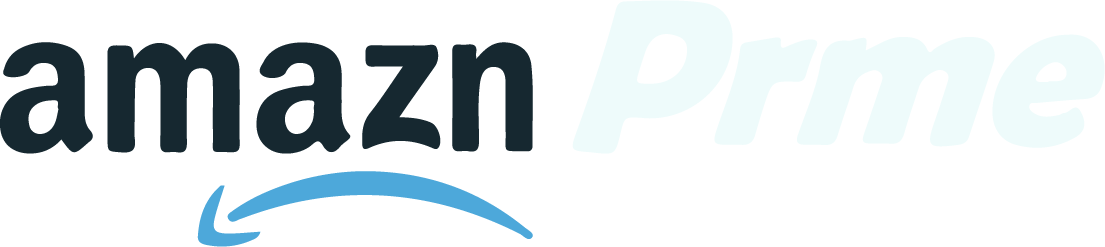
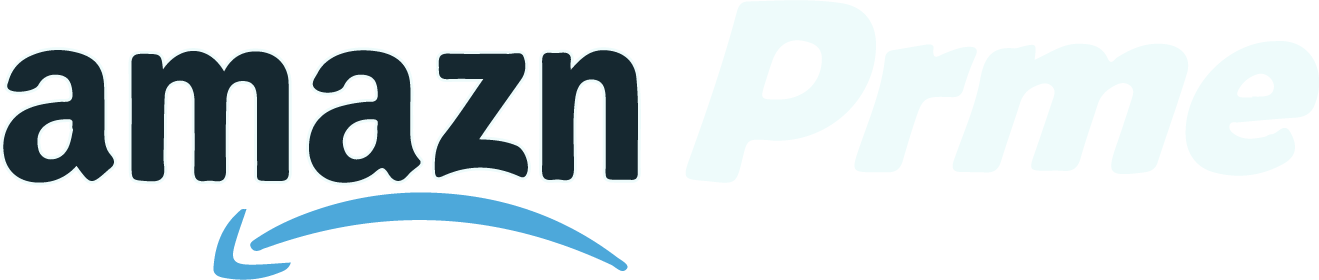
estructura base de todas menos de prme hechas

diff --git a/index.html b/index.html
@@ -17,7 +17,7 @@
         <div class="headr">
 
             <a href="index.html">
-                <img src="assets/Recurso12.png" id="logo" alt="logo" width="150px" height="50px">
+                <img src="assets/logo.png" id="logo" alt="logo" width="150px" height="50px">
             </a>
 
         </div>
@@ -62,34 +62,32 @@
 
     <!--Aside dentro del main-->
     <main>
-        <section class="menuh">
 
-        </section>
-
-        <section>
-            <h2>Destacados</h2>
+        <section id="principal">
+            <h2>Novedades Destacadas</h2>
             <article>
-                <p>
-                    Lorem ipsum dolor sit amet consectetur adipisicing elit. Explicabo nam delectus voluptas maiores
-                    dolore reiciendis fugiat, minus cumque similique inventore esse aliquam repellat officiis atque
-                    quisquam, eum autem consectetur adipisci?
-                    Quidem recusandae ullam sint fuga pariatur ipsam. Ut impedit, sequi quis rerum doloremque vel
-                    numquam. Id hic inventore, commodi asperiores dolores exercitationem? Perferendis reprehenderit
-                    beatae ea eligendi! Quasi, ab deleniti!
-                    Culpa ad fuga, aliquid quos voluptates, ratione nihil nobis atque pariatur dicta totam iste
-                    accusamus, nesciunt ducimus doloremque laboriosam quia. Impedit nulla eius natus ea ab amet nam
-                    aliquid perspiciatis?
-                    Ullam hic deserunt amet tenetur harum labore suscipit commodi voluptatum quaerat impedit quibusdam
-                    nesciunt, rerum odit repellendus voluptatem sapiente dicta a neque exercitationem beatae officia qui
-                    necessitatibus itaque! Fugiat, accusamus.
-                    Cupiditate voluptatum odio porro ratione ex voluptatem explicabo quaerat. Placeat ut, temporibus
-                    quisquam in laboriosam laborum consectetur earum quibusdam molestiae! Recusandae perferendis enim
-                    fugiat maxime impedit quidem deserunt quas placeat!
-                    Labore minima laborum, deleniti placeat nobis quis modi unde ipsam voluptatem reprehenderit
-                    provident. Laboriosam, beatae molestias! Voluptate eos, quod eaque nobis officia, aliquid quisquam
-                    debitis possimus a corrupti atque ipsum!
-                </p>
+
             </article>
+
+            <article>
+
+            </article>
+
+            <article>
+
+            </article>
+
+            <article>
+
+            </article>
+
+            <article>
+
+            </article>
+            <article>
+
+            </article>
+
         </section>
 
     </main>

diff --git a/paginas/bsics.html b/paginas/bsics.html
@@ -16,7 +16,7 @@
         <div class="headr">
 
             <a href="../index.html">
-                <img src="../assets/Recurso12.png" id="logo" alt="logo" width="150px" height="50px">
+                <img src="../assets/logo.png" id="logo" alt="logo" width="150px" height="50px">
             </a>
 
         </div>
@@ -61,14 +61,34 @@
 
     <main>
 
-        Lorem ipsum dolor sit amet consectetur adipisicing elit. Quisquam, vel rerum exercitationem obcaecati
-        repudiandae similique voluptatum nostrum dolor, libero ea accusantium iste possimus magni magnam voluptas.
-        Praesentium minima aliquid labore?
-        Consectetur ducimus asperiores incidunt repellat assumenda iusto, ex magnam est quidem omnis voluptates veniam.
-        Neque dignissimos architecto eligendi expedita totam corrupti molestias, libero quis quasi quae repellendus
-        praesentium, autem consequuntur.
-        Nostrum quod sunt ea consectetur praesentium ratione? Temporibus, nesciunt? Laborum ea rerum nemo in provident,
-        impedit totam dolorum distinctio officia saepe quos sequi nihil, vel quae, neque animi quasi blanditiis!
+        <section id="principal">
+
+            <h2>Amazn Bsics</h2>
+            <article>
+
+            </article>
+
+            <article>
+
+            </article>
+
+            <article>
+
+            </article>
+            
+            <article>
+
+            </article>
+
+            <article>
+
+            </article>
+            <article>
+
+            </article>
+            
+        </section>
+
     </main>
 
     <footer>

diff --git a/paginas/ofertas.html b/paginas/ofertas.html
@@ -16,7 +16,7 @@
         <div class="headr">
 
             <a href="../index.html">
-                <img src="../assets/Recurso12.png" id="logo" alt="logo" width="150px" height="50px">
+                <img src="../assets/logo.png" id="logo" alt="logo" width="150px" height="50px">
             </a>
 
         </div>
@@ -60,14 +60,32 @@
     </nav>
 
     <main>
-        Lorem ipsum dolor sit amet consectetur adipisicing elit. Laborum, nulla accusantium! Doloremque rerum rem nisi
-        aliquid placeat nostrum, tempore optio, facere in qui quas eum ducimus nulla, natus consequatur? Aperiam!
-        Expedita quam libero veniam asperiores laborum magnam porro nesciunt, tempora quisquam omnis numquam nemo ipsam
-        natus officia. Consequatur dolor accusantium doloremque nesciunt quae obcaecati modi, sed, mollitia laudantium
-        amet dolore!
-        Repellendus, alias natus nulla ab praesentium voluptate debitis eligendi animi, necessitatibus at dicta ut
-        fugiat ea beatae architecto aspernatur eveniet error omnis dolorum laboriosam magni? Neque quasi beatae placeat
-        ipsa.
+        <section id="principal">
+            <h2>Ofertas</h2>
+            <article>
+
+            </article>
+
+            <article>
+
+            </article>
+
+            <article>
+
+            </article>
+
+            <article>
+
+            </article>
+
+            <article>
+
+            </article>
+            <article>
+
+            </article>
+
+        </section>
 
     </main>
 

diff --git a/paginas/masVendidos.html b/paginas/masVendidos.html
@@ -16,7 +16,7 @@
         <div class="headr">
 
             <a href="../index.html">
-                <img src="../assets/Recurso12.png" id="logo" alt="logo" width="150px" height="50px">
+                <img src="../assets/logo.png" id="logo" alt="logo" width="150px" height="50px">
             </a>
 
         </div>
@@ -61,13 +61,32 @@
 
     <main>
 
-        Lorem ipsum dolor sit, amet consectetur adipisicing elit. Dolorum, culpa veritatis debitis dignissimos iure quae
-        voluptates, tempore enim aspernatur reiciendis necessitatibus? Inventore rem eius nemo animi illo optio, aut
-        veniam!
-        Ipsa omnis, expedita sunt architecto at nemo magnam sapiente eius sint nisi facilis dolorum perferendis id,
-        accusamus quasi possimus ex cumque dolore vero maiores quos labore cupiditate similique? Iusto, repellat.
-        Doloremque perspiciatis, sunt excepturi obcaecati, eaque, adipisci explicabo rem minima praesentium minus esse
-        nam quaerat earum saepe id eum tenetur omnis? Hic, est vero dolore explicabo labore sint porro neque.
+        <section id="principal">
+            <h2>Mas Vendidos</h2>
+            <article>
+
+            </article>
+
+            <article>
+
+            </article>
+
+            <article>
+
+            </article>
+            
+            <article>
+
+            </article>
+
+            <article>
+
+            </article>
+            <article>
+
+            </article>
+            
+        </section>
 
     </main>
 

diff --git a/style.css b/style.css
@@ -56,8 +56,6 @@ header form {
 
 }
 
-
-
 header button {
     height: 50px;
     width: 100px;
@@ -148,20 +146,40 @@ fieldset {
     height: 280px;
 }
 
-#login legend {
+#register{
+    margin: auto;
+    margin-top: -30px;
+    border: #EEFBFB;
+    border-radius: 10px;
+    border-style: solid;
+    border-width: 1px;
+    padding: 30px;
+    width: 200px;
+    height: 300px;
+}
+
+#login legend,#register legend {
     margin: 0 auto;
     margin-bottom: 30px;
 }
 
-#login input {
+#login input,#register input {
     display: block;
+}
+
+#register input,#register button{
+    margin: auto;
+}
+
+#register input{
+    margin-top: 20px;
 }
 
 #password {
     margin-top: 20px;
 }
 
-#loginb {
+#loginb,#register button {
     width: 100px;
     height: 40px;
     margin-left: 35px;
@@ -171,6 +189,10 @@ fieldset {
     border: 0;
     border-radius: 15px;
     cursor: pointer;
+}
+
+#register button{
+    margin-top: 30px;
 }
 
 #linealogin {
@@ -193,7 +215,31 @@ fieldset {
     cursor: pointer;
 }
 
+#principal{
+    width: 1200px;
+    height: 800px;
+    margin: auto;
+    margin-top: 20px;
+    text-align: center;
+}
 
+#principal article {
+    float: left;
+    width: 300px;
+    height: 300px;
+    border:  #EEFBFB solid;
+    display: block;
+    margin-top: 20px;
+    margin-bottom: 10px;
+    margin-left: 70px;
+    cursor:pointer
+}
+
+#mainpr div{
+    margin: auto;
+    width: 659px;
+    height: 140px;
+}
 
 /*FOOTER*/
 

diff --git a/paginas/prme.html b/paginas/prme.html
@@ -16,7 +16,7 @@
         <div class="headr">
 
             <a href="../index.html">
-                <img src="../assets/Recurso12.png" id="logo" alt="logo" width="150px" height="50px">
+                <img src="../assets/logo.png" id="logo" alt="logo" width="150px" height="50px">
             </a>
 
         </div>
@@ -61,14 +61,16 @@
 
     <main>
 
-        Lorem ipsum dolor sit amet consectetur adipisicing elit. Ullam, iste rerum, veritatis ad voluptatum dolores
-        velit quisquam mollitia corrupti, odit voluptate illum reprehenderit maxime a ut repellendus corporis delectus.
-        Molestiae!
-        Consequuntur sapiente cum facere, odit at iste beatae. Earum ratione laboriosam distinctio nobis, quos nam rerum
-        iste libero, provident facilis aliquid qui! Aspernatur cupiditate pariatur molestias ipsa, sapiente maxime nemo.
-        Quas quis in ut quasi, eius fuga maiores soluta praesentium? Illum, dignissimos dolorum. Repudiandae ut odit
-        voluptates voluptatem necessitatibus aspernatur cupiditate eum, maiores deleniti recusandae ducimus illum!
-        Ducimus, quaerat explicabo.
+        <section id="mainpr">
+            <div>
+                <img src="../assets/prme.png" alt="prme" width="659px" height="140px">
+            </div>
+            
+            <article>
+
+            </article>
+        </section>
+
     </main>
 
     <footer>

diff --git a/paginas/register.html b/paginas/register.html
@@ -22,12 +22,13 @@
             <form action="#" method="post">
                 <fieldset>
                     <a href="../index.html">
-                        <img src="../assets/Recurso21.png" id="logo" alt="logo" width="150px" height="50px">
+                        <img src="../assets/logo.png" id="logo" alt="logo" width="150px" height="50px">
                     </a>
                     <input type="text" name="nombre" id="nombre" placeholder="Nombre">
                     <input type="email" name="correo" id="correo" placeholder="Correo Electronico">
                     <input type="password" name="password1" id="password1" placeholder="Contraseña">
                     <input type="password" name="password2" id="password2" placeholder="Confirmar Contraseña">
+                    <button type="submit">Crear Cuenta</button>
                 </fieldset>
             </form>
         </div>

diff --git a/paginas/login.html b/paginas/login.html
@@ -21,7 +21,7 @@
                 <fieldset>
                     <legend>
                         <a href="../index.html">
-                            <img src="../assets/Recurso21.png" id="logo" alt="logo" width="150px" height="50px">
+                            <img src="../assets/logo.png" id="logo" alt="logo" width="150px" height="50px">
                         </a>
                     </legend>
                     <input type="email" name="correo" id="correo" placeholder="Correo Electronico">
